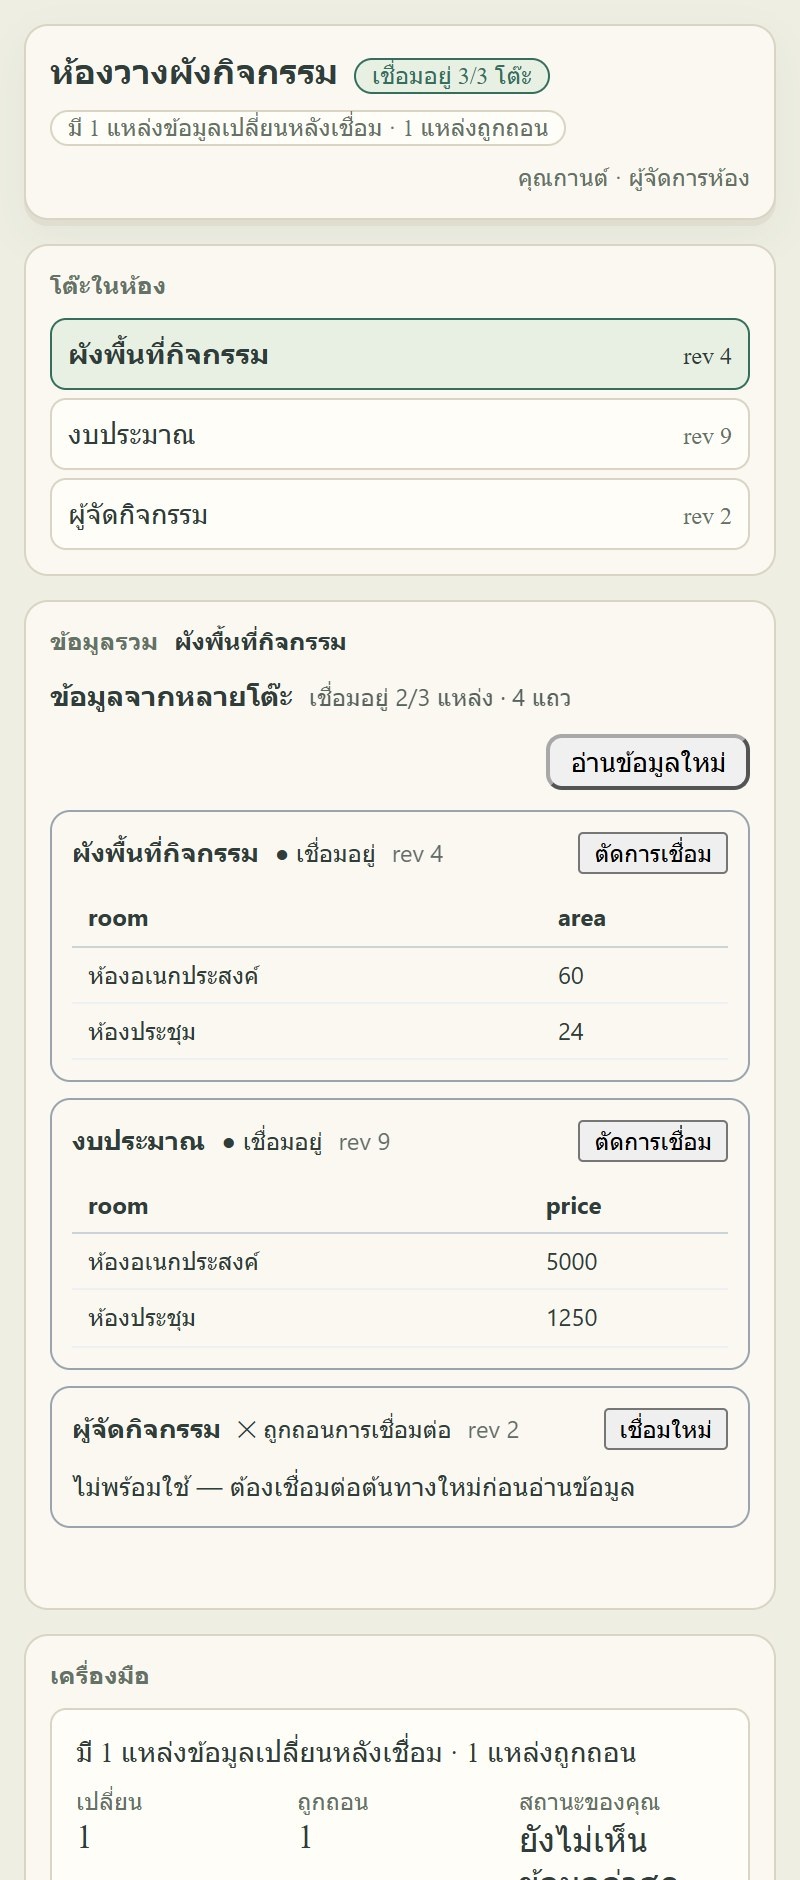
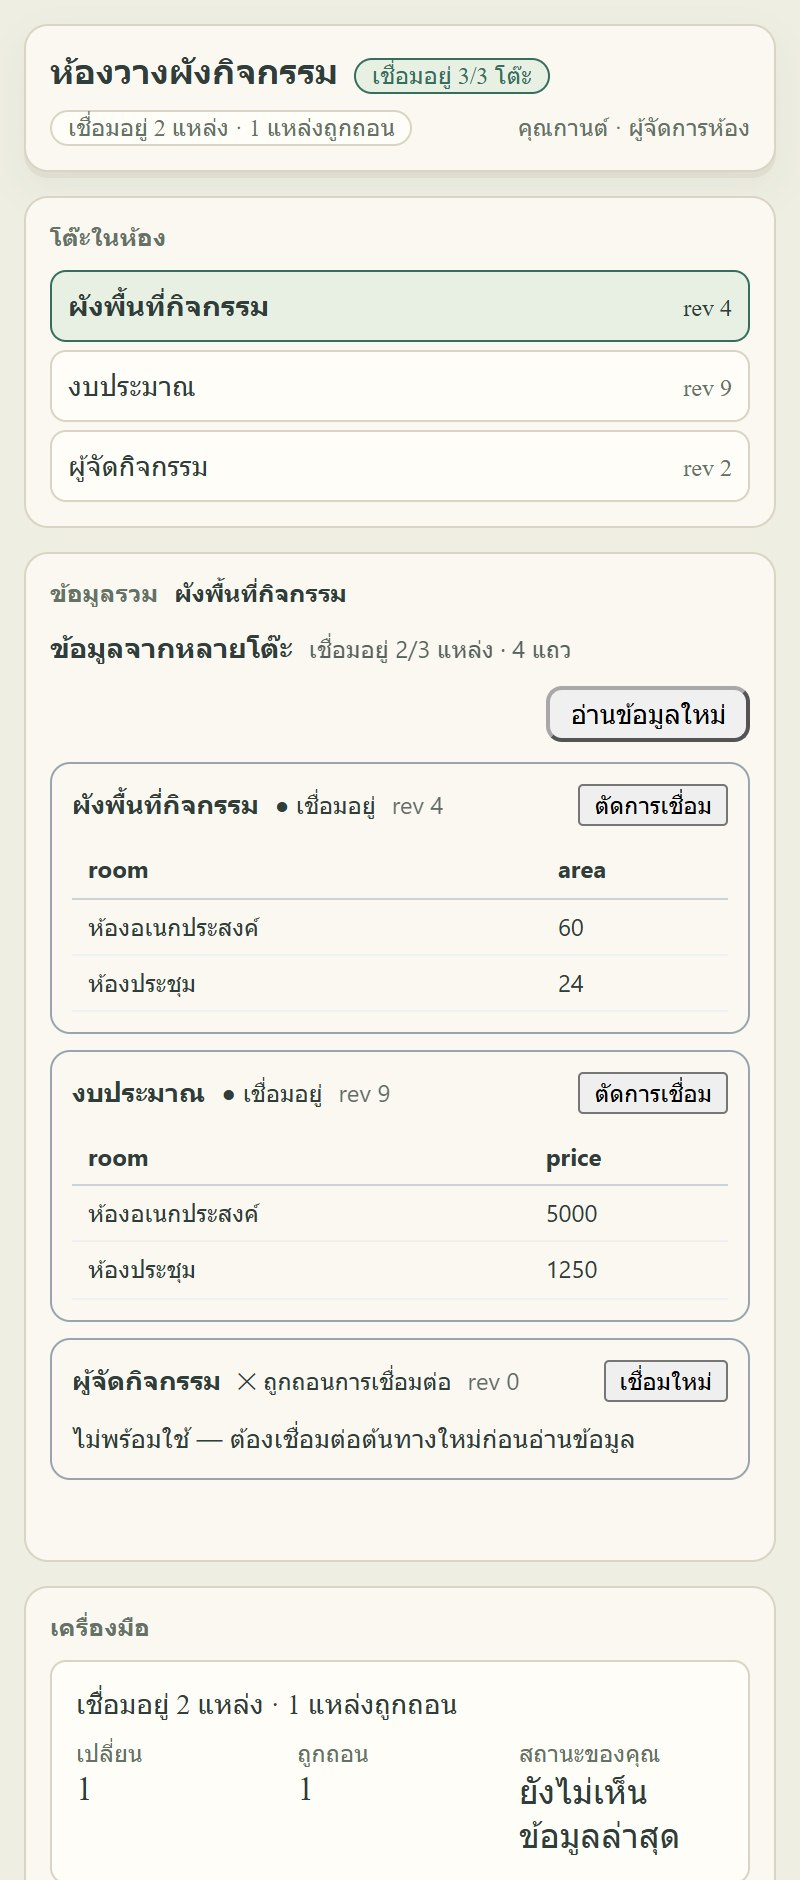
F080-T-V: the room shell runs the real client and is checked in CI

diff --git a/tests/ui/room-shell/harness.tsx b/tests/ui/room-shell/harness.tsx
@@ -1,13 +1,18 @@
-import { useState } from 'react';
+import { useCallback, useEffect, useState } from 'react';
 import { createRoot } from 'react-dom/client';
 import { RoomShell, type RoomRecapView, type RoomTableSummary } from '../../../src/tabletop/ui/RoomShell';
 import type { JoinedSource } from '../../../src/tabletop/ui/JoinedProjectionView';
+import { readJoinedSources, type JoinedSourceRequest, type ProjectionResponse } from '../../../src/tabletop/ui/joined-projection-client';
+import { createJoinedProjectionFetcher } from '../../../src/tabletop/ui/joined-projection-fetcher';
 
 /**
- * F080 / JT-V harness: the room shell (variant C) with synthetic data, so its layout can be measured
- * and looked at without a running Worker. The CSS is injected by the build script from the real token
- * file, so what is measured is the product's styling, not a copy of it.
+ * F080 / JT-V harness: the room shell (variant C) with the real client mapping in the loop.
+ *
+ * Only the platform fetch is scripted. URL building, status mapping and the "one failing source does
+ * not hide the others" rule all run product code, and the CSS is injected from the real token file.
  */
+
+const SPACE = '11111111-1111-4111-8111-111111111111';
 
 const TABLES: RoomTableSummary[] = [
   { workspaceId: 'workspace-plan', title: 'ผังพื้นที่กิจกรรม', dataRevision: 4, status: 'linked' },
@@ -15,57 +20,93 @@ const TABLES: RoomTableSummary[] = [
   { workspaceId: 'workspace-people', title: 'ผู้จัดกิจกรรม', dataRevision: 2, status: 'linked' },
 ];
 
-const SOURCES: JoinedSource[] = [
-  {
-    workspaceId: 'workspace-plan', label: 'ผังพื้นที่กิจกรรม', portId: 'plan', status: 'live', dataRevision: 4,
-    fields: ['room', 'area'],
-    rows: [
-      { id: 'plan-1', values: { room: 'ห้องอเนกประสงค์', area: 60 } },
-      { id: 'plan-2', values: { room: 'ห้องประชุม', area: 24 } },
-    ],
-  },
-  {
-    workspaceId: 'workspace-budget', label: 'งบประมาณ', portId: 'budget', status: 'live', dataRevision: 9,
-    fields: ['room', 'price'],
-    rows: [
-      { id: 'cost-1', values: { room: 'ห้องอเนกประสงค์', price: 5000 } },
-      { id: 'cost-2', values: { room: 'ห้องประชุม', price: 1250 } },
-    ],
-  },
-  {
-    workspaceId: 'workspace-people', label: 'ผู้จัดกิจกรรม', portId: 'people', status: 'revoked', dataRevision: 2,
-    fields: ['name', 'role'],
-    rows: [{ id: 'p-1', values: { name: 'กานต์', role: 'ผู้จัดการ' } }],
-  },
+const REQUESTS: JoinedSourceRequest[] = [
+  { workspaceId: 'workspace-plan', label: 'ผังพื้นที่กิจกรรม', portId: 'plan', grantId: 'grant-plan' },
+  { workspaceId: 'workspace-budget', label: 'งบประมาณ', portId: 'budget', grantId: 'grant-budget' },
+  { workspaceId: 'workspace-people', label: 'ผู้จัดกิจกรรม', portId: 'people', grantId: 'grant-people' },
 ];
 
+function ok(portId: string, fields: string[], rows: { id: string; values: Record<string, string | number> }[], revision: number): ProjectionResponse {
+  return { status: 200, body: { ok: true, portId, projection: { portId, fields, maxRows: 10 }, rows, sourceDataRevision: revision, grantVersion: 1, readAt: Date.now() } };
+}
+
+const INITIAL: Record<string, ProjectionResponse> = {
+  plan: ok('plan', ['room', 'area'], [
+    { id: 'plan-1', values: { room: 'ห้องอเนกประสงค์', area: 60 } },
+    { id: 'plan-2', values: { room: 'ห้องประชุม', area: 24 } },
+  ], 4),
+  budget: ok('budget', ['room', 'price'], [
+    { id: 'cost-1', values: { room: 'ห้องอเนกประสงค์', price: 5000 } },
+    { id: 'cost-2', values: { room: 'ห้องประชุม', price: 1250 } },
+  ], 9),
+  // The third source was withdrawn at the source, which is exactly what the shell must show.
+  people: { status: 409, body: { ok: false, errorCode: 'SPACE_GRANT_REVOKED' } },
+};
+
+const REFRESHED: Record<string, ProjectionResponse> = {
+  plan: ok('plan', ['room', 'area'], [{ id: 'plan-1', values: { room: 'ห้องอเนกประสงค์', area: 72 } }], 5),
+  budget: ok('budget', ['room', 'price'], [{ id: 'cost-1', values: { room: 'ห้องอเนกประสงค์', price: 5200 } }], 10),
+};
+
+const lastLive: Record<string, number> = {};
+
 function Harness(): React.ReactElement {
-  const [sources, setSources] = useState<JoinedSource[]>(SOURCES);
+  const [sources, setSources] = useState<JoinedSource[]>([]);
+  const [script, setScript] = useState<Record<string, ProjectionResponse>>(INITIAL);
   const [activeTableId, setActiveTableId] = useState(TABLES[0]!.workspaceId);
 
+  const read = useCallback(async (responses: Record<string, ProjectionResponse>): Promise<JoinedSource[]> => {
+    const scriptedFetch = (async (input: RequestInfo | URL) => {
+      const url = new URL(String(input), 'https://tabletop.test');
+      const port = url.searchParams.get('port') ?? '';
+      const answer = responses[port] ?? { status: 404, body: { ok: false, errorCode: 'SPACE_SOURCE_NOT_LINKED' } };
+      return new Response(JSON.stringify(answer.body), { status: answer.status, headers: { 'content-type': 'application/json' } });
+    }) as unknown as typeof fetch;
+    const next = await readJoinedSources(SPACE, REQUESTS, {
+      fetchProjection: createJoinedProjectionFetcher({ origin: 'https://tabletop.test', fetchImpl: scriptedFetch }),
+    });
+    for (const source of next) {
+      if (source.status === 'live') lastLive[source.portId] = source.dataRevision;
+    }
+    return next;
+  }, []);
+
+  useEffect(() => {
+    void read(INITIAL).then(setSources);
+  }, [read]);
+
   const refresh = async (): Promise<void> => {
-    setSources(current => current.map(source => (source.status === 'live'
-      ? { ...source, dataRevision: source.dataRevision + 1 }
-      : source)));
+    const next = { ...script, ...REFRESHED };
+    setScript(next);
+    setSources(await read(next));
   };
 
   const disconnect = async (workspaceId: string): Promise<void> => {
-    setSources(current => current.map(source => (source.workspaceId === workspaceId
-      ? { ...source, status: 'revoked', rows: [] }
-      : source)));
+    const request = REQUESTS.find(entry => entry.workspaceId === workspaceId);
+    if (!request) return;
+    const next = { ...script, [request.portId]: { status: 409 as const, body: { ok: false, errorCode: 'SPACE_GRANT_REVOKED' } } };
+    setScript(next);
+    setSources(await read(next));
   };
 
   const reconnect = async (workspaceId: string): Promise<void> => {
-    setSources(current => current.map(source => (source.workspaceId === workspaceId
-      ? { ...source, status: 'live', dataRevision: source.dataRevision + 1 }
-      : source)));
+    const request = REQUESTS.find(entry => entry.workspaceId === workspaceId);
+    if (!request) return;
+    const revision = (lastLive[request.portId] ?? 1) + 1;
+    const next = { ...script, [request.portId]: ok(request.portId, ['room'], [], revision) };
+    setScript(next);
+    setSources(await read(next));
   };
 
+  const live = sources.filter(source => source.status === 'live').length;
+  const withdrawn = sources.filter(source => source.status === 'revoked').length;
   const recap: RoomRecapView = {
-    headline: 'มี 1 แหล่งข้อมูลเปลี่ยนหลังเชื่อม · 1 แหล่งถูกถอน',
-    incomplete: false,
+    headline: sources.length === 0
+      ? 'กำลังอ่านข้อมูลจากต้นทาง'
+      : `เชื่อมอยู่ ${live} แหล่ง${withdrawn > 0 ? ` · ${withdrawn} แหล่งถูกถอน` : ''}`,
+    incomplete: sources.some(source => source.status === 'missing'),
     changed: sources.filter(source => source.status === 'live' && source.dataRevision > 4).length,
-    withdrawn: sources.filter(source => source.status === 'revoked').length,
+    withdrawn,
     unseen: true,
   };
 
